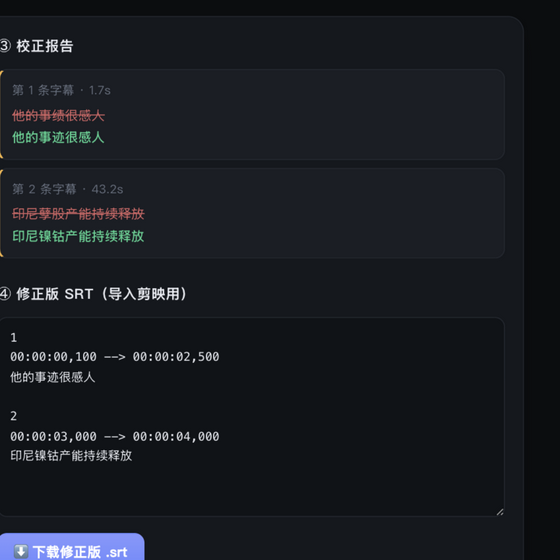
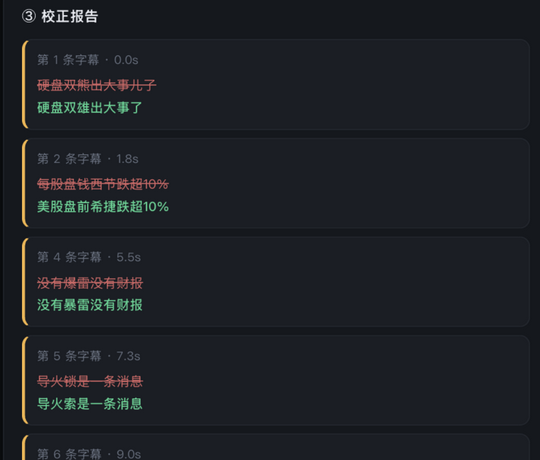
feat: AI 校正行级护栏；README 换真实案例截图
真实数据测试（156s 财经口播 + 原稿，62 条粗稿）发现两个缺陷并修复：
- AI 重建文本会把标点带回来（转写层已去标点）→ calibrate_srt
  行级护栏：原文无标点则修正行强制去标点（asr_local.strip_punct，
  小数点 0.2% 保留）
- AI 偶发重复/扩写（第 61 条 10→28 字）→ 修正行比原文长 6 字
  以上即拒绝并记 notes，宁少改不误改

重跑真实数据：62 条全部无标点、最长 18 字，26 处修正
（双熊→双雄、每股盘钱西节→美股盘前希捷、导火锁→导火索、
固碳→固态），2 条幻觉行被护栏拒绝

README：截图全部换为真实案例（总览/音频参数/校正报告），
新增真实案例段落（数据与修正样例）；新增 screenshot-real-case.png
测试：新增 TestCalibrateGuards 2 用例，37/37 全绿

diff --git a/test_srt.py b/test_srt.py
@@ -155,5 +155,46 @@ class TestSrtApi(unittest.TestCase):
         self.assertTrue(r.get_json()["ok"])
 
 
+class TestCalibrateGuards(unittest.TestCase):
+    """AI 校正行级护栏：无标点风格保持 + 幻觉长行拒绝。"""
+
+    def _calibrate_with_stub(self, fixed_map):
+        import srtfix
+        import ai_subfix
+
+        def stub(subtitles, script, cfg=None):
+            fixed = {s["segment_id"]: fixed_map.get(int(s["segment_id"]), s["text"])
+                     for s in subtitles}
+            changes = [{"segment_id": k, "index": int(k), "start_sec": 0,
+                        "old": next(x["text"] for x in subtitles if x["segment_id"] == k),
+                        "new": v}
+                       for k, v in fixed.items()
+                       if v != next(x["text"] for x in subtitles if x["segment_id"] == k)]
+            return fixed, changes, ["stub"]
+
+        orig = ai_subfix.ai_align
+        ai_subfix.ai_align = stub
+        try:
+            return srtfix.calibrate_srt(SRT_OK, SCRIPT_OK, ai=True)
+        finally:
+            ai_subfix.ai_align = orig
+
+    def test_punct_free_style_preserved(self):
+        """原文无标点 → AI 修正行也不得带标点。"""
+        fixed = {1: "他的事迹，很感人！", 2: "答案取决于镍价。"}
+        out, changes, applied, _ = self._calibrate_with_stub(fixed)
+        self.assertNotIn("，", out.split("\n")[2])
+        self.assertNotIn("！", out.split("\n")[2])
+        self.assertNotIn("。", out.split("\n")[5])
+
+    def test_hallucinated_long_line_rejected(self):
+        """修正行比原文长 6 字以上（重复/扩写幻觉）→ 弃用，保留原文。"""
+        fixed = {1: "他的事迹很感人，而且逻辑被重写的价格往往后知后觉",
+                 2: "答案取决于镍价"}
+        out, changes, applied, _ = self._calibrate_with_stub(fixed)
+        self.assertIn("他的事迹很感人", out)  # 原文保留（未采纳幻觉行）
+        self.assertFalse(any("逻辑被重写" in ln for ln in out.split("\n")))
+
+
 if __name__ == "__main__":
     unittest.main(verbosity=2)

diff --git a/srtfix.py b/srtfix.py
@@ -79,6 +79,24 @@ def calibrate_srt(srt_text, script, phonetic=True, ai=False):
         fixed, changes, notes = ai_subfix.ai_align(subs, clean)
     else:
         fixed, changes = subfix.align_phonetic(subs, clean)
+    # 行级护栏（针对 AI 重建文本的两个已知缺陷）：
+    # ① 原文无标点（转写风格）→ 修正行强制去标点（0.2% 这类小数点保留）
+    # ② 修正行比原文长 6 字以上 → 视为重复/扩写幻觉，弃用保留原文
+    import re
+    import asr_local
+    _punct = re.compile(r'[。！？；，、：""''…—（）【】《》<>!?,;:]')
+    for e in entries:
+        new = fixed.get(str(e["index"]))
+        if not new or new == e["text"]:
+            continue
+        if not _punct.search(e["text"]):
+            new = asr_local.strip_punct(new)
+        if len(new) > len(e["text"]) + 6:
+            notes.append(f"第 {e['index']} 条修正行异常变长"
+                         f"（{len(e['text'])}→{len(new)} 字），已保留原文")
+            fixed.pop(str(e["index"]), None)
+            continue
+        fixed[str(e["index"])] = new
     applied = 0
     for e in entries:
         new = fixed.get(str(e["index"]))

diff --git a/README.md b/README.md
@@ -59,6 +59,7 @@
 
 ![校正报告](docs/screenshot-report.png)
 
+**真实案例**：一段 156 秒的财经口播（156.4s 音频 → 剪 8s 头 → 1.1× 加速 → 135s），whisper 粗稿 62 条，AI + 拼音对齐修正 26 处——「硬盘双熊」→「硬盘双雄」、「每股盘钱西节」→「美股盘前希捷」、「导火锁」→「导火索」、「大音线/供给力空」→「大阴线/供给利空」、「固碳硬盘」→「固态硬盘」，时间轴零改动。内置幻觉护栏会拒绝 AI 异常变长的行（重复/扩写），保证宁少改不误改。
 每处修改列出字幕序号、时间点、原句（红）与新句（绿），扫一眼就能确认改得对不对；不放心可以只改一部分——重新跑一遍勾选不同的模式即可。
 
 ### 记住你的习惯
